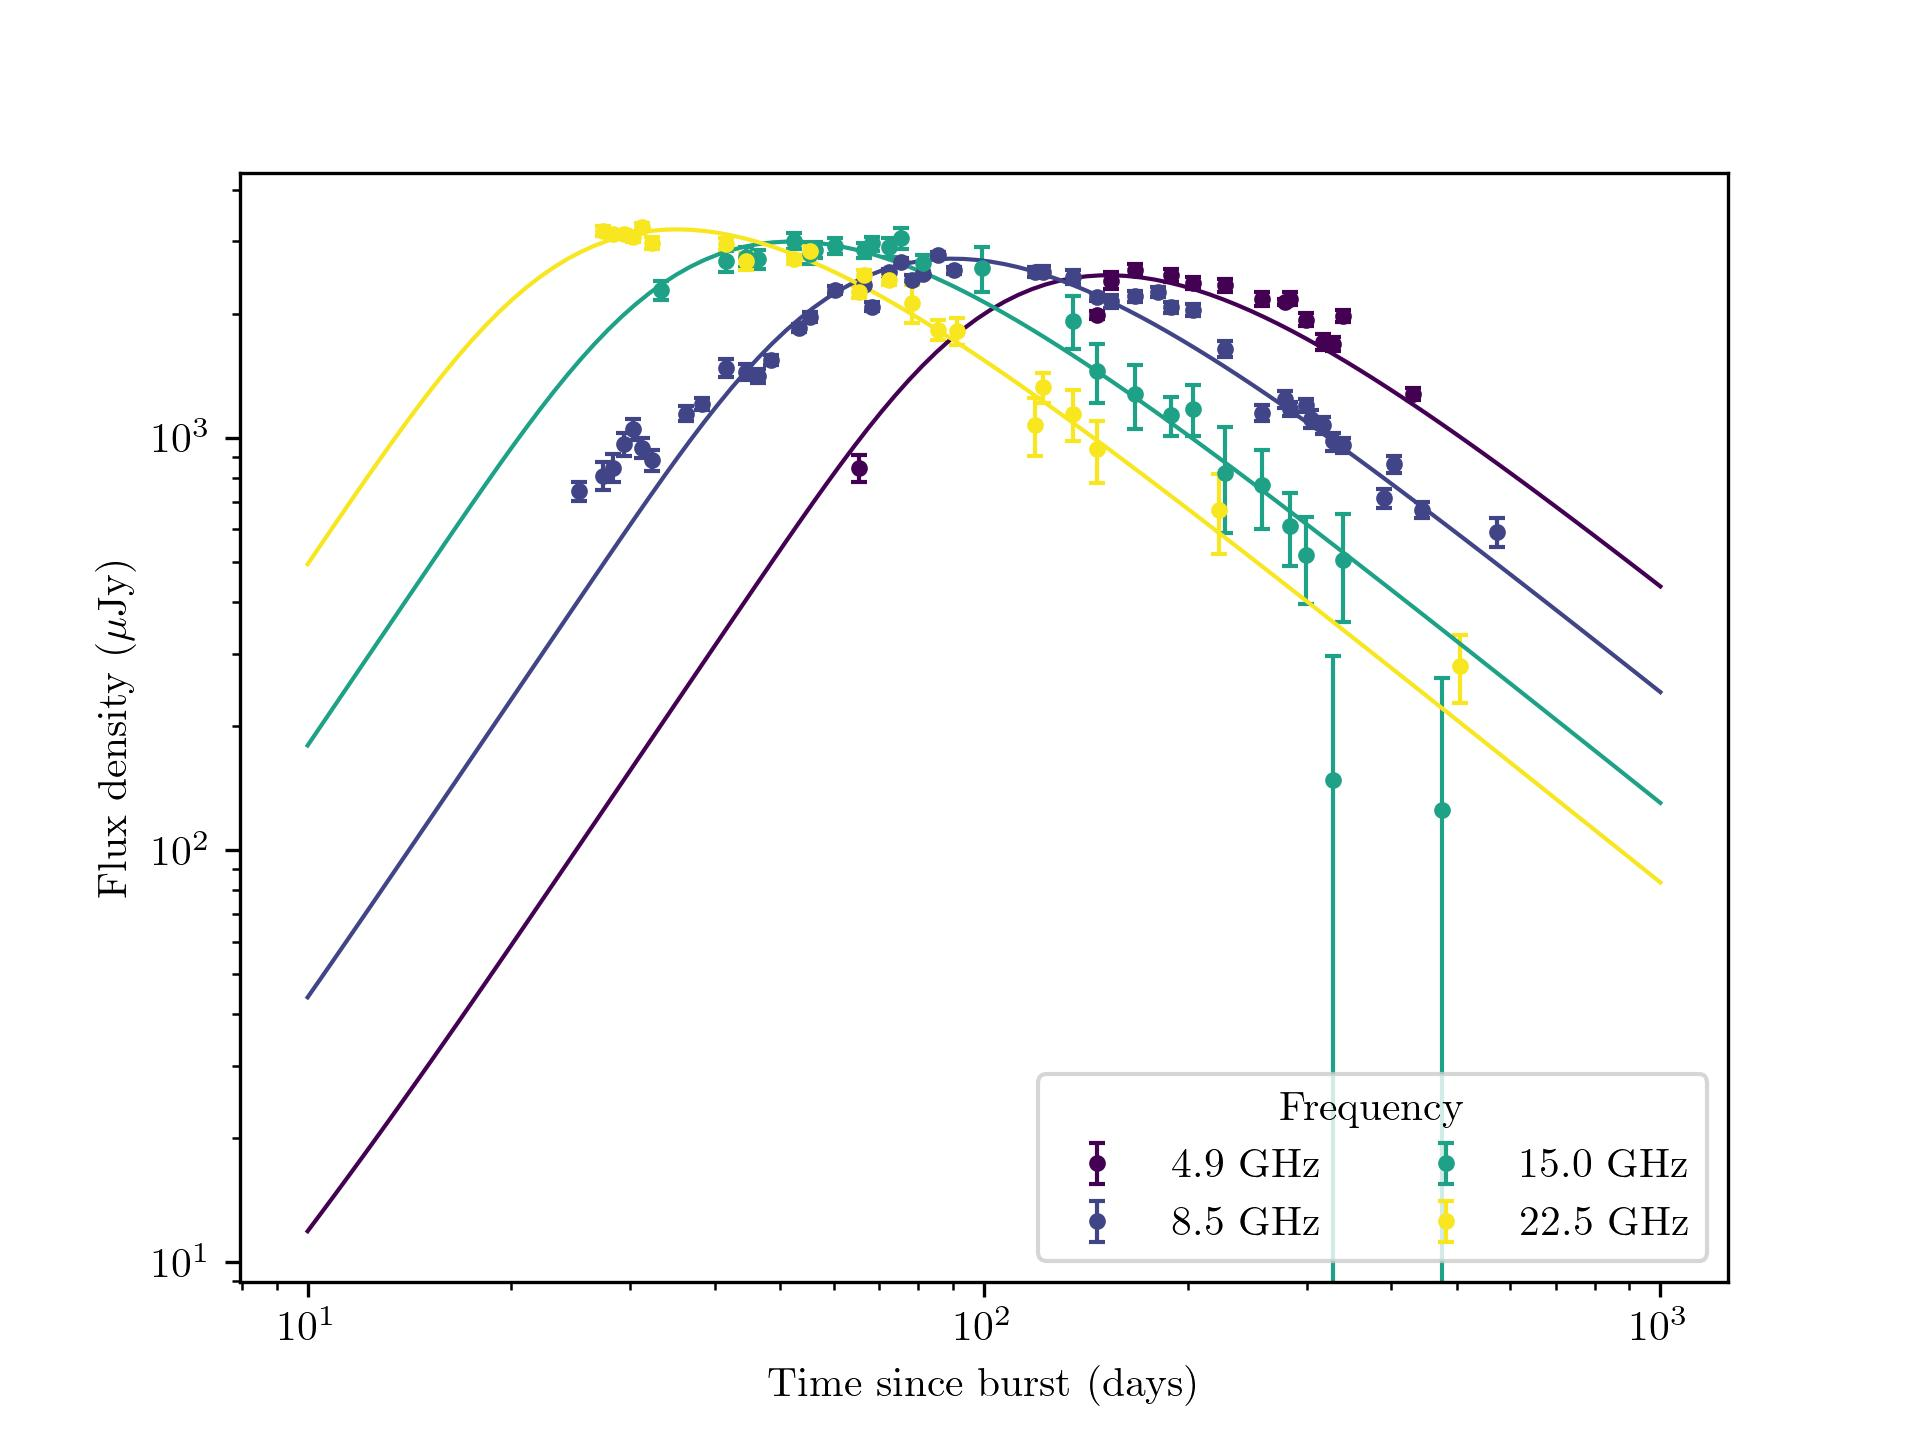
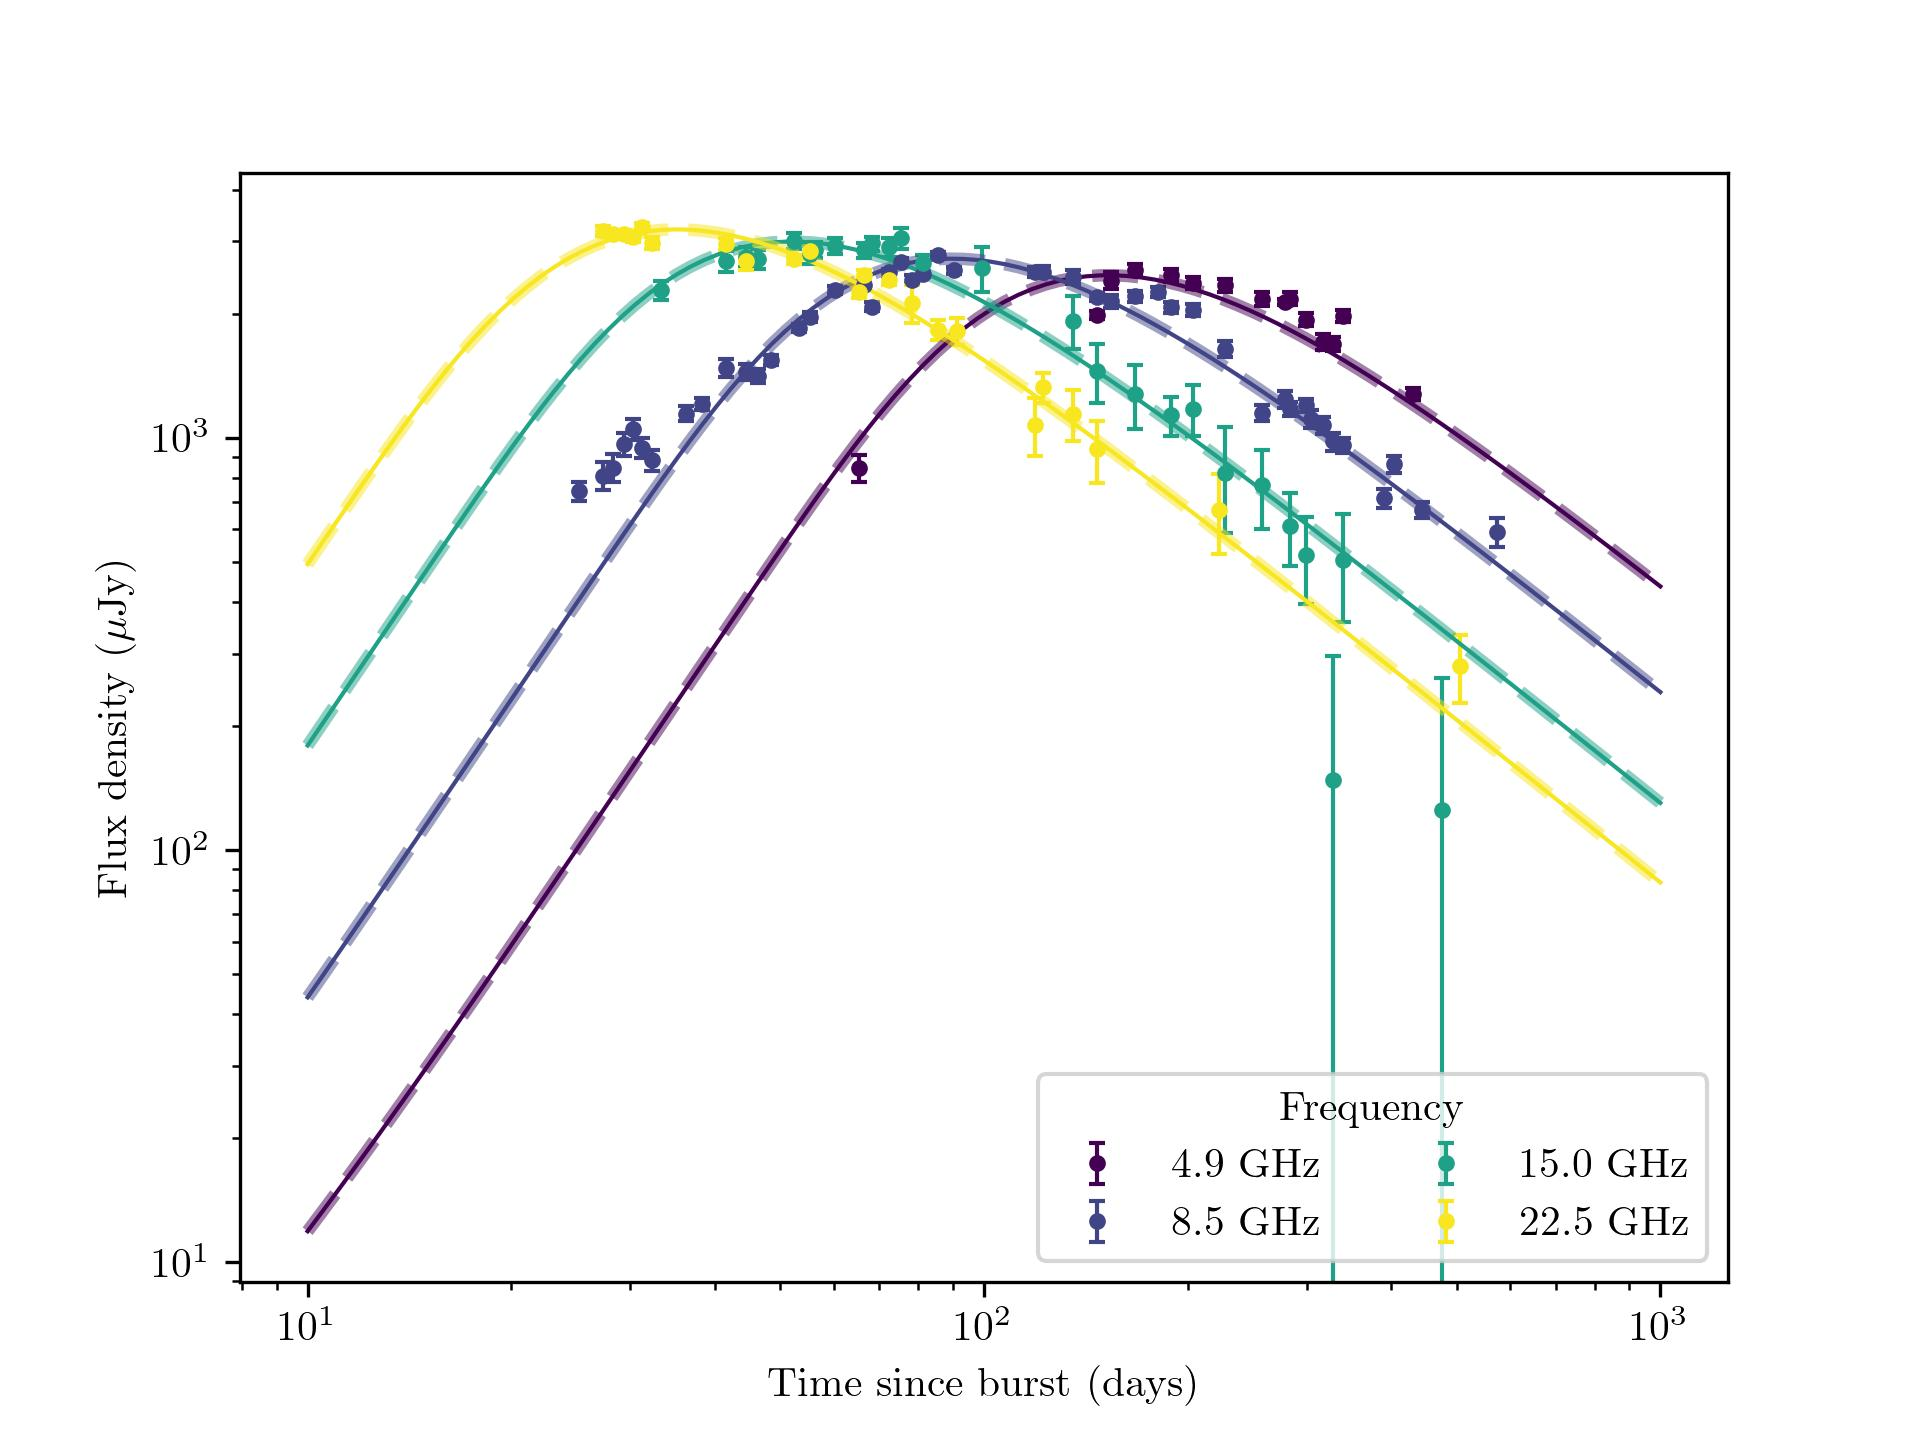
Updated the pkl files with better grid for x values. Also added extrapolation for out of bounds values

diff --git a/PySSA.py b/PySSA.py
@@ -23,7 +23,7 @@ c = (const.c.cgs).value  # cm/s
 # --------------------------------------------------------------
 
 
-# Define functions F, F_2 and F_3
+# Define functions F_2 and F_3
 
 to_interp = False
 
@@ -35,11 +35,9 @@ F2_x_values = F2_dict['x']
 F2_p_values = F2_dict['p']
 F2_values = F2_dict['F2']
 
-print(F2_values[-10:-1])
-
 F2_grid = np.array(F2_values).reshape(len(F2_p_values), len(F2_x_values))
 
-interp_func_F2 = interpolate.RegularGridInterpolator((np.unique(F2_x_values), np.unique(F2_p_values)), F2_grid.T, bounds_error = False)
+
 
 # for function F3
 
@@ -51,74 +49,78 @@ F3_values = F3_dict['F3']
 
 F3_grid = np.array(F3_values).reshape(len(F3_p_values), len(F3_x_values))
 
-interp_func_F3 = interpolate.RegularGridInterpolator((np.unique(F3_x_values), np.unique(F3_p_values)), F3_grid.T, bounds_error = False)
 
 
-def calc_F(x, to_interp=False):
+
+def calc_F(x):
     """
     Returns values of function F (defined in eq. A7 of Soderberg et al. 2005)
     at x
     """
-    if not to_interp:
-        def fy1(y):
-            return special.kv(5.0 / 3.0, y)
 
-        if isinstance(x, float):
-            return x * integrate.quad(fy1, x, np.inf)[0]
-        else:
-            F_x = np.zeros(len(x))
-            for i, x_i in enumerate(x):
-                F_x[i] = x_i * integrate.quad(fy1, x_i, np.inf)[0]
-            return F_x
+    def fy1(y):
+        return special.kv(5.0 / 3.0, y)
+
+    if isinstance(x, float):
+        return x * integrate.quad(fy1, x, np.inf)[0]
     else:
-        return interp_func_F(x)
+        F_x = np.zeros(len(x))
+        for i, x_i in enumerate(x):
+            F_x[i] = x_i * integrate.quad(fy1, x_i, np.inf)[0]
+        return F_x
+
     
     
-def calc_F_2(x, calc_F, p, to_interp=False):
+def calc_F_2(x, calc_F, p):
     """
     Returns values of function F2 (defined in eq. A7 of Soderberg et al. 2005)
     at x
     """
-    if not to_interp:
-        def fy2(y):
-            return calc_F(y) * (y ** ((p - 2.0) / 2.0))
 
-        if isinstance(x, float):
-            return np.sqrt(3) * integrate.quad(fy2, 0, x)[0]
-        else:
-            F_2_x = np.zeros(len(x))
-            for i, x_i in enumerate(x):
-                if x_i < 20000:
-                    F_2_x[i] = np.sqrt(3) * integrate.quad(fy2, 0, x_i)[0]
-                else:
-                    F_2_x[i:] = np.sqrt(3) * integrate.quad(fy2, 0, 20000)[0]
-            return F_2_x
+    def fy2(y):
+        return calc_F(y) * (y ** ((p - 2.0) / 2.0))
+
+    if isinstance(x, float):
+        return np.sqrt(3) * integrate.quad(fy2, 0, x)[0]
     else:
-        return interp_func_F2((x,p))
+        F_2_x = np.zeros(len(x))
+        for i, x_i in enumerate(x):
+            if x_i < 20000:
+                F_2_x[i] = np.sqrt(3) * integrate.quad(fy2, 0, x_i)[0]
+            else:
+                F_2_x[i:] = np.sqrt(3) * integrate.quad(fy2, 0, 20000)[0]
+        return F_2_x
+
+def calc_F_2_interp(x,p):    
+    
+    interp_func_F2 = interpolate.RegularGridInterpolator((np.unique(F2_x_values), np.unique(F2_p_values)), F2_grid.T, bounds_error = False, method="linear", fill_value=None)
+    return interp_func_F2((x,p))
         
         
-def calc_F_3(x, calc_F, p, to_interp=False):
+def calc_F_3(x, calc_F, p):
     """
     Returns values of function F3 (defined in eq. A7 of Soderberg et al. 2005)
     at x
     """
-    if not to_interp:
-        def fy3(y):
-            return calc_F(y) * (y ** ((p - 3.0) / 2.0))
 
-        if isinstance(x, float):
-            return np.sqrt(3) * integrate.quad(fy3, 0, x)[0]
-        else:
-            F_3_x = np.zeros(len(x))
-            for i, x_i in enumerate(x):
-                if x_i < 2000:
-                    F_3_x[i] = np.sqrt(3) * integrate.quad(fy3, 0, x_i)[0]
-                else:
-                    F_3_x[i:] = np.sqrt(3) * integrate.quad(fy3, 0, 2000)[0]
-            return F_3_x
+    def fy3(y):
+        return calc_F(y) * (y ** ((p - 3.0) / 2.0))
 
+    if isinstance(x, float):
+        return np.sqrt(3) * integrate.quad(fy3, 0, x)[0]
     else:
-        return interp_func_F3((x,p))
+        F_3_x = np.zeros(len(x))
+        for i, x_i in enumerate(x):
+            if x_i < 2000:
+                F_3_x[i] = np.sqrt(3) * integrate.quad(fy3, 0, x_i)[0]
+            else:
+                F_3_x[i:] = np.sqrt(3) * integrate.quad(fy3, 0, 2000)[0]
+        return F_3_x
+
+def calc_F_3_interp(x,p):  
+
+    interp_func_F3 = interpolate.RegularGridInterpolator((np.unique(F3_x_values), np.unique(F3_p_values)), F3_grid.T, bounds_error = False, method="linear", fill_value=None)
+    return interp_func_F3((x,p))
 
 # --------------------------------------------------------------
 
@@ -248,8 +250,12 @@ def SSA_flux_density(
     nu_m = calc_nu_m(t, 10 ** (log_nu_m_0), t_0, alpha_gamma, alpha_B)
     x = (2.0 / 3.0) * (nu / nu_m)
     print(x)
-    F2 = calc_F_2(x, calc_F, p, to_interp)
-    F3 = calc_F_3(x, calc_F, p, to_interp)
+    if to_interp:
+        F2 = calc_F_2(x, calc_F, p)
+        F3 = calc_F_3(x, calc_F, p)
+    else:
+        F2 = calc_F_2_interp(x, p)
+        F3 = calc_F_3_interp(x, p)        
 
     tau_nu = calc_tau_nu(
         t, t_0, C_tau, alpha_r, alpha_gamma, alpha_B, alpha_scriptF, p, nu, F2

diff --git a/plot_lc.py b/plot_lc.py
@@ -4,6 +4,8 @@ from mycolorpy import colorlist as mcp
 import numpy as np
 from PySSA import *
 
+import time
+
 plt.rcParams.update(
     {
         "text.usetex": True,
@@ -77,7 +79,34 @@ for i in range(len(uniq_freqs)):
         alpha_scriptF,
         to_interp=False,
     )
+
     ax.plot(t, ssa_fnu, linewidth=1, color=colors[i])
+
+    ssa_fnu_interp = SSA_flux_density(
+        t,
+        t_0,
+        uniq_freqs[i] * 1e9,
+        d,
+        eta,
+        B_0,
+        r_0,
+        alpha_r,
+        p,
+        nu_m_0,
+        s,
+        xi,
+        scriptF_0,
+        alpha_scriptF,
+        to_interp=True,
+    )
+    ax.plot(
+        t,
+        ssa_fnu_interp,
+        linewidth=3,
+        color=colors[i],
+        linestyle="dashed",
+        alpha=0.5,
+    )
 
 ax.legend(title="Frequency", ncol=2)
 ax.set_xlabel("Time since burst (days)")

diff --git a/Interpolation_files/gen_F2_values.py b/Interpolation_files/gen_F2_values.py
@@ -45,7 +45,7 @@ def calc_F_2(x, calc_F, p):
 
 
 x1 = np.arange(0, 20, 1e-3)
-x2 = np.arange(20, 700)
+x2 = np.arange(20, 10000)
 x = np.append(x1, x2)
 
 print(x)
@@ -61,9 +61,10 @@ for j in tqdm(range(len(p))):
     for i in tqdm(range(len(x))):
         F2.append(calc_F_2(x[i], calc_F, p[j]))
 
-
 val_dict = {"x": x, "p": p, "F2": F2}
 
 
 with open("F2_values.pkl", "wb") as f:
     pickle.dump(val_dict, f)
+
+# tab = Table([x, p, F2], names=["x", "p", "F2"])

diff --git a/Interpolation_files/gen_F3_values.py b/Interpolation_files/gen_F3_values.py
@@ -43,7 +43,7 @@ def calc_F_3(x, calc_F, p):
         return F_3_x
 
 x1 = np.arange(0, 20, 1e-3)
-x2 = np.arange(20, 700)
+x2 = np.arange(20, 10000)
 x = np.append(x1, x2)
 
 print(x)
@@ -58,7 +58,6 @@ for j in tqdm(range(len(p))):
     )
     for i in tqdm(range(len(x))):
         F3.append(calc_F_3(x[i], calc_F, p[j]))
-
 
 val_dict = {"x": x, "p": p, "F3": F3}
 

diff --git a/README.md b/README.md
@@ -11,7 +11,7 @@ Python implementation of the Sychrotron Self Absorbed (SSA) model from
   <img src="Soderberg_2005_figure2.jpg" width="70%"/> 
 </p>
 <p align="center">
-  Here is the output lightcurve. Compare this with Figure 2 of <a href="https://ui.adsabs.harvard.edu/abs/2005ApJ...621..908S/abstract">Soderberg et al. 2005</a>
+  Here is the output lightcurve. Compare this with Figure 2 of <a href="https://ui.adsabs.harvard.edu/abs/2005ApJ...621..908S/abstract">Soderberg et al. 2005</a>. The dashed curves are from the fast interpolation calculation.
 </p>
 
 - Use `SSA_MCMC_fit.py` to perform fit of the SSA model. `MCMC_plotter.py` helps to plot the corner plot and the walks (see the package [ChainConsumer](https://samreay.github.io/ChainConsumer/)).
